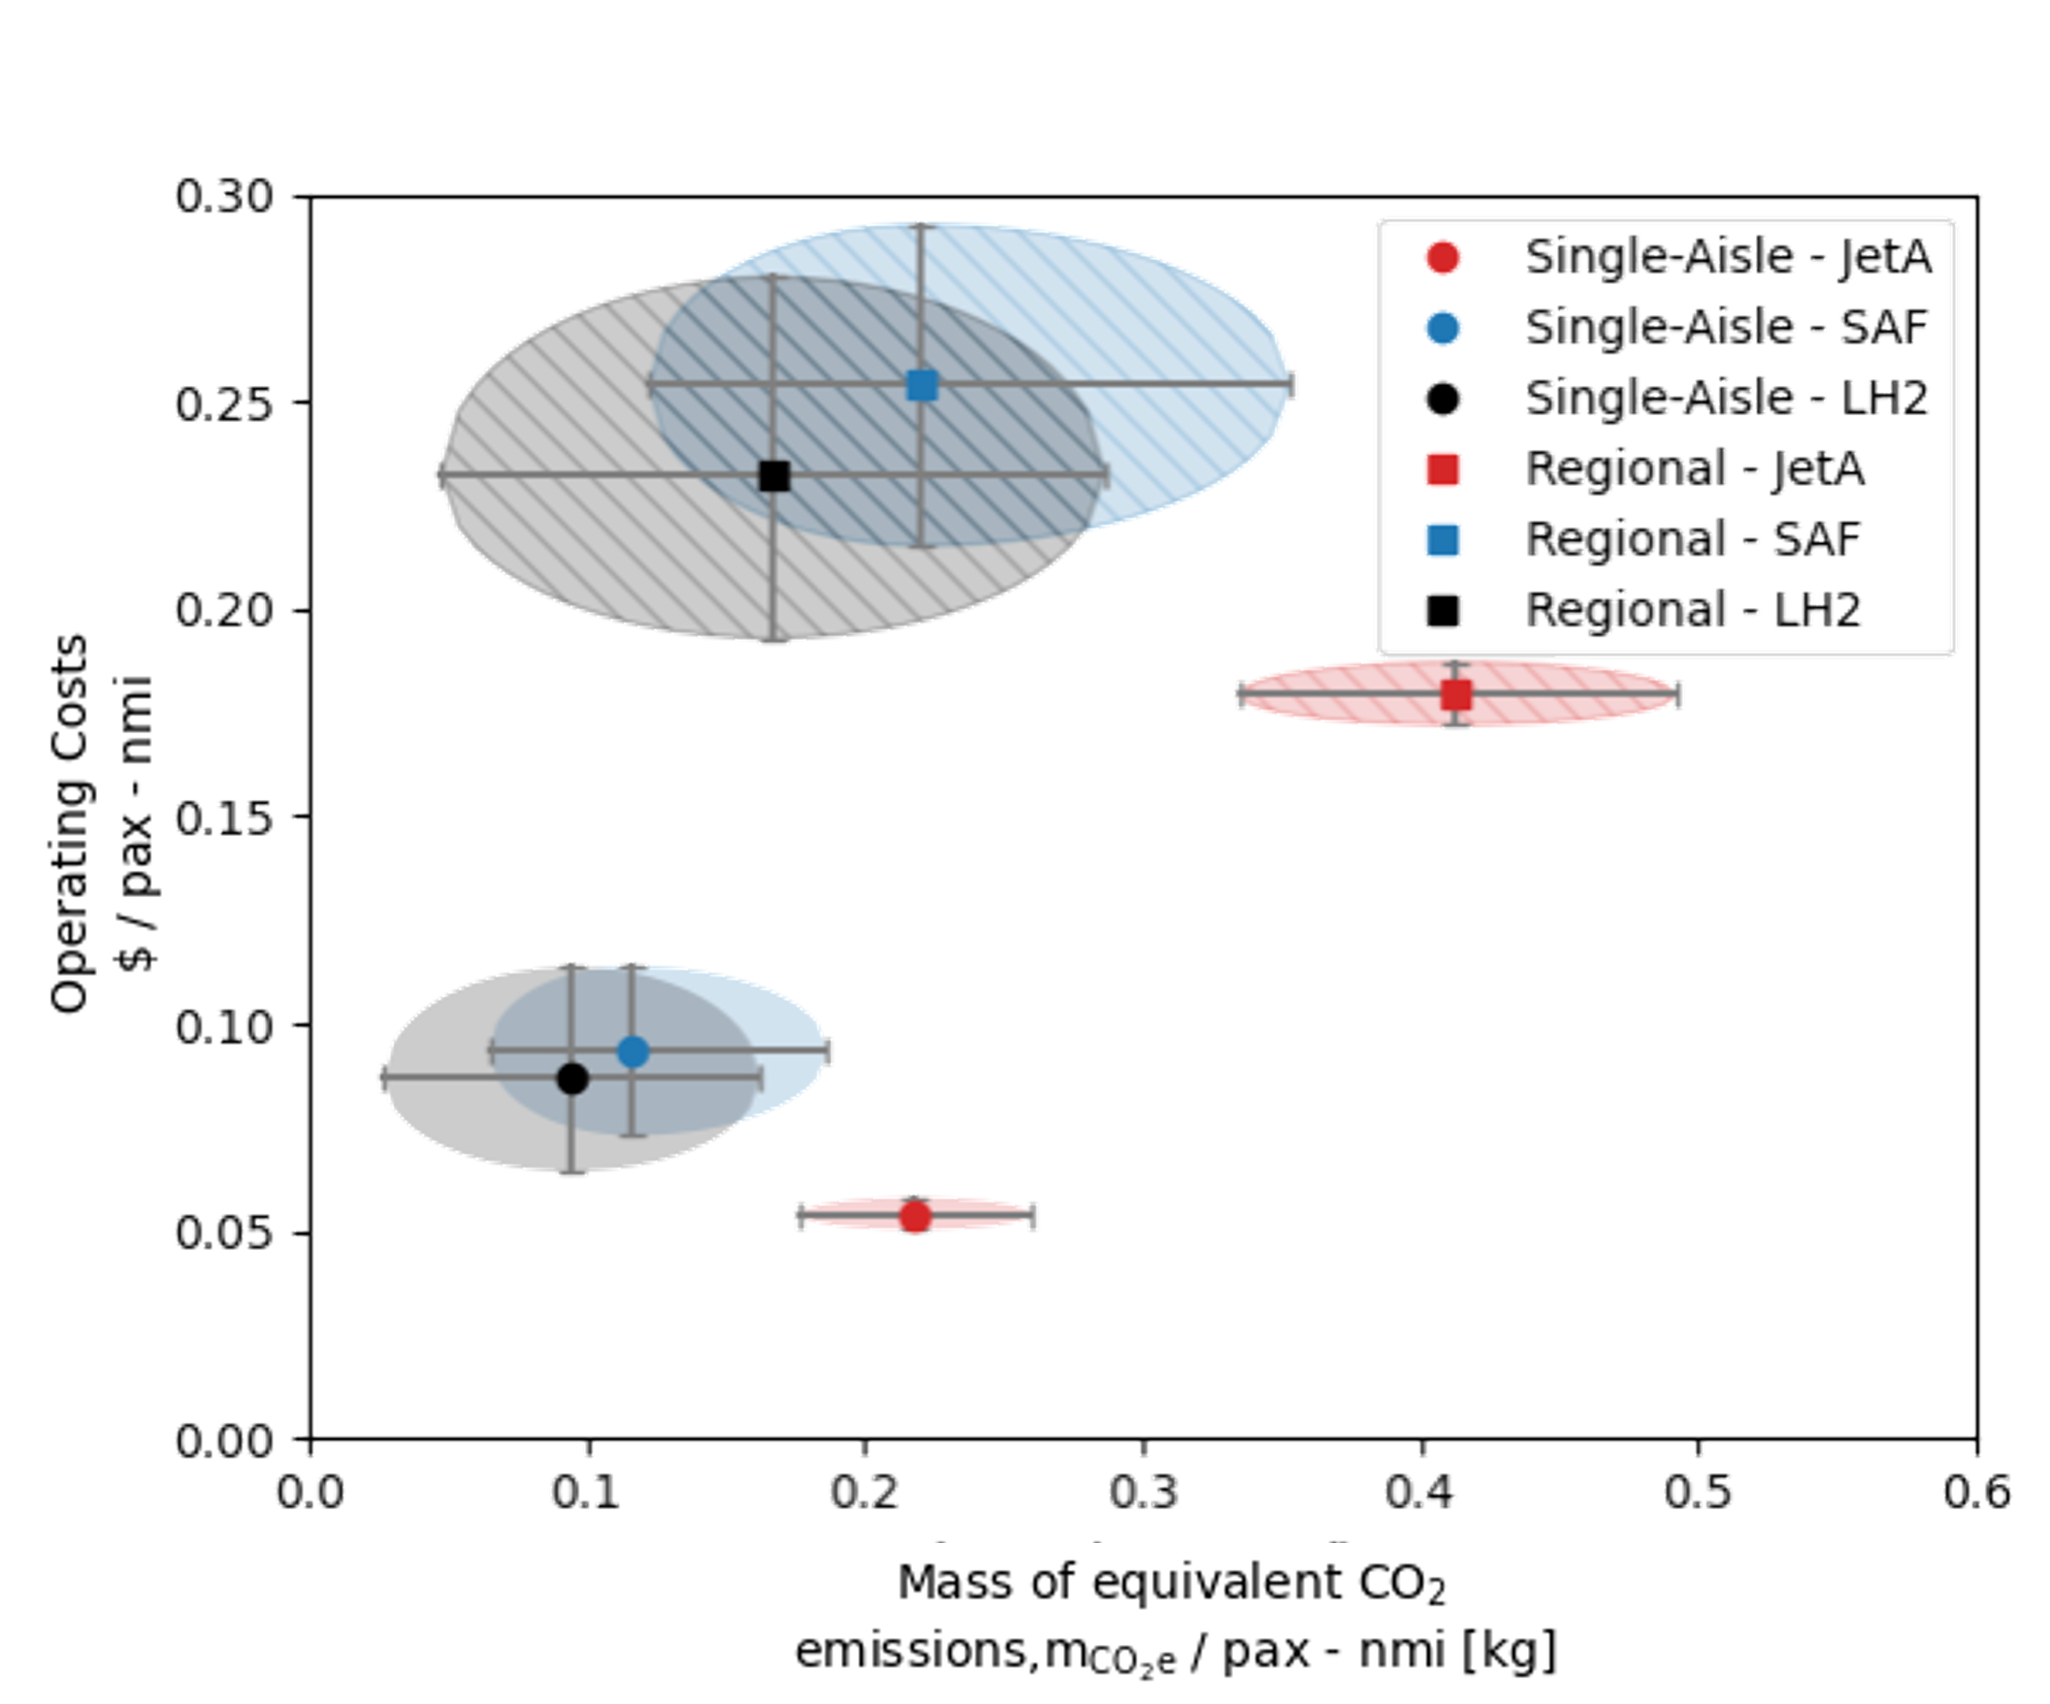
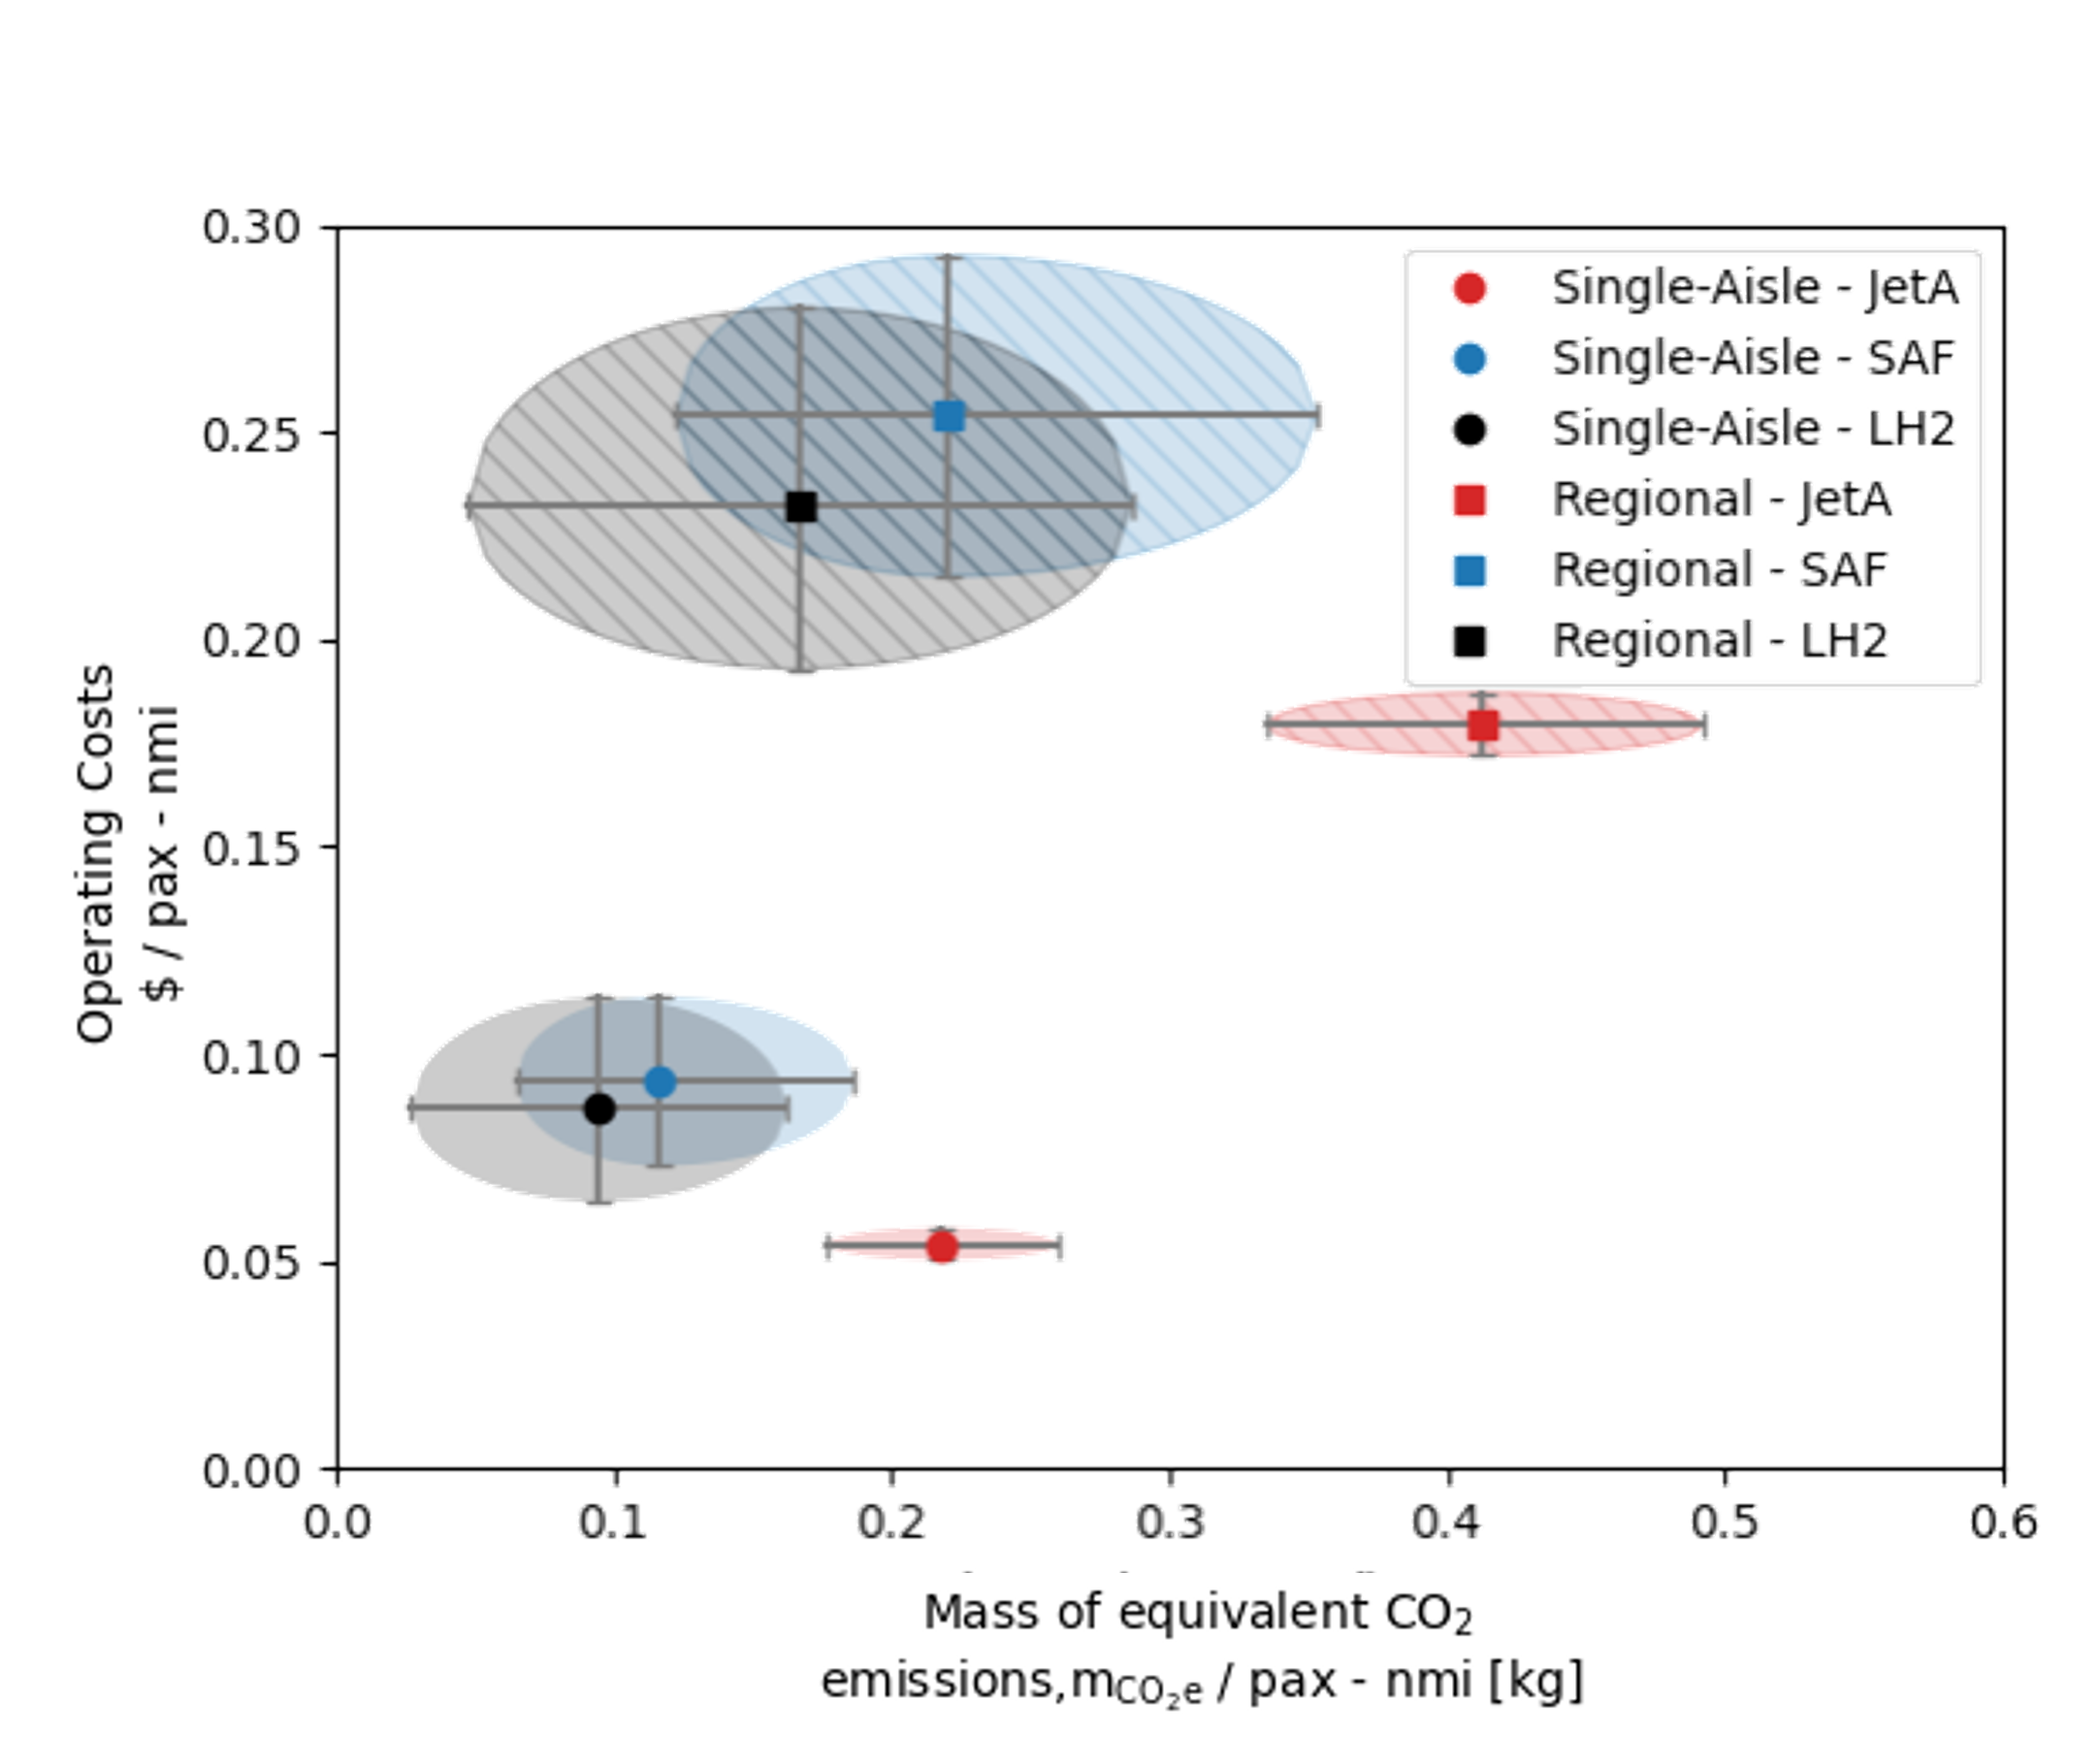
removed projects and testbed pages for minimum working example. updated publication preview figures

Changed region(s): [[0.0, 0.0922, 0.9995, 0.9835], [0.3748, 0.6762, 0.4998, 0.7376], [0.2811, 0.3381, 0.3124, 0.3688]]

diff --git a/_pages/about.md b/_pages/about.md
@@ -27,9 +27,9 @@ latest_posts:
   limit: 3 # leave blank to include all the blog posts
 ---
 
-I am currently in my fifth year as a graduate student at Penn State with an expected graduation date of Spring 2026. My PhD thesis has focused on the design of hybrid-electric rotorcraft, with a multi-faceted approach that includes conceptual design optimization, predictive control frameworks, and hardware testing.  
+I am currently in my fifth year as a graduate student at Penn State with an expected graduation date of Spring 2026. My PhD research is focused on the design of hybrid-electric rotorcraft, with an interdisciplinary approach that includes conceptual design optimization, predictive control frameworks, and hardware testing.  
 
-Prior to returning to graduate school, I worked as a Configuration Design Engineer in the Boeing Commercial Aircraft Advanced Concepts team. While at Boeing, I supported a handful of projects evaluating hybrid-electric propulsion for emerging and existing commercial markets. Common threads throughout my graduate and professional work include conceptual aircraft design, multi-fidelity modeling of hybrid-electric propulsion systems, conceptual design tool development, and evaluation of new technologies for aircraft applications.  
+Prior to graduate school, I worked as a Configuration Design Engineer in the Boeing Commercial Aircraft Advanced Concepts team. While at Boeing, I supported a handful of projects evaluating hybrid-electric propulsion for emerging and existing commercial markets. Common threads throughout my graduate and professional work include conceptual aircraft design, multi-fidelity modeling of hybrid-electric propulsion systems, conceptual design tool development, and evaluation of new technologies for aircraft applications.  
 
 I am passionate about working from first principles, leveraging optimization and practical experience to gain meaningful insights in the design of complex aerospace systems. 
 

diff --git a/_news/aero_seminar.md b/_news/aero_seminar.md
@@ -1,0 +1,9 @@
+---
+layout: post
+title: VFS Forum 81 Presentation
+date: 2025-09-11 16:00:00-0400
+inline: true
+related_posts: false
+---
+
+I presented my work on the powertrain testbed at the Penn State Aerospace Department Seminar. The focus was our scaling and emulation approach as well as our vision for future devleopment and collaborations within the department. 

diff --git a/_news/ms_thesis.md b/_news/ms_thesis.md
@@ -1,0 +1,9 @@
+---
+layout: post
+title: MS Degree Completion
+date: 2023-05-06 16:11:00-0400
+inline: true
+related_posts: false
+---
+
+I completed my MS degree. Read my thesis ["Environmental and Economic Impact of Transport Aircraft Using Sustainable Aviation Fuel or Liquid-Hydrogen as Alternative Fuels"](https://etda.libraries.psu.edu/catalog/32384avv5448 "thesis")

diff --git a/_pages/projects.md b/_pages/projects.md
@@ -1,4 +1,4 @@
----
+<!-- ---
 layout: page
 title: Projects
 permalink: /projects/
@@ -7,7 +7,7 @@ nav: true
 nav_order: 2
 display_categories: [Penn State, Boeing, USC]
 horizontal: false
----
+--- -->
 
 <!-- pages/projects.md -->
 <div class="projects">

diff --git a/_pages/testbed.md b/_pages/testbed.md
@@ -1,4 +1,4 @@
----
+<!-- ---
 layout: page
 title: Testbed
 permalink: /testbed/
@@ -7,8 +7,7 @@ nav: true
 nav_order: 4
 display_categories: [work, fun]
 horizontal: false
-
----
+--- -->
 
 This is an example post with image galleries.
 
